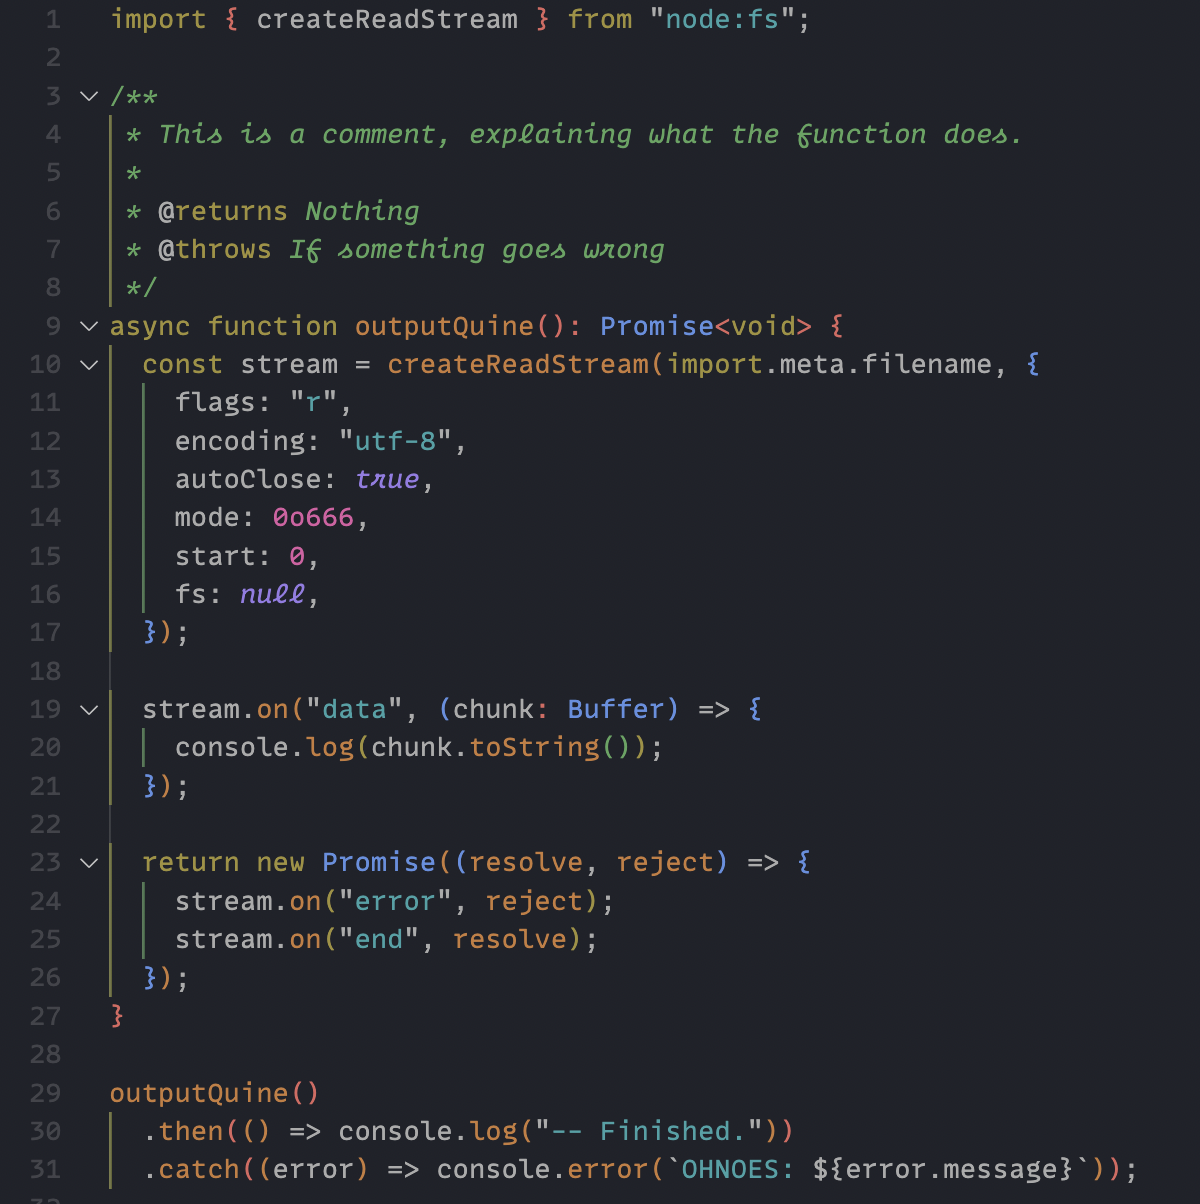
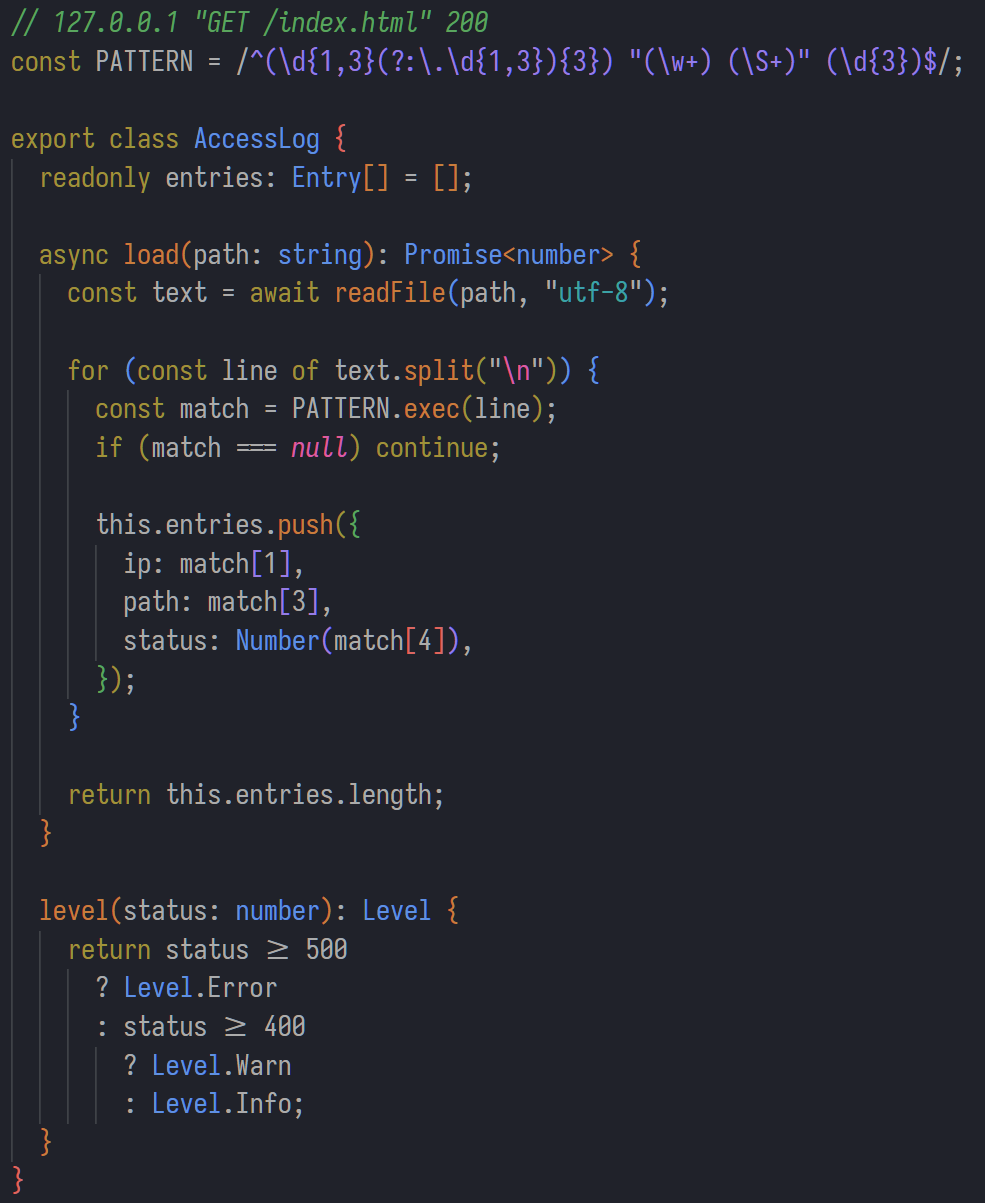
feat: 2.1.0

diff --git a/README.md b/README.md
@@ -4,8 +4,7 @@ A soothing, low-intensity color theme for people who stare at code all day. Ever
 
 | Luma Dark | Luma Light |
 | --- | --- |
-| <img src="https://raw.githubusercontent.com/scottinet/luma/refs/heads/main/assets/luma-dark-code.png" alt="Luma Dark Code" width="430"> | <img src="https://raw.githubusercontent.com/scottinet/luma/refs/heads/main/assets/luma-light-code.png" alt="Luma Light Code" width="430"> |
-| <img src="https://raw.githubusercontent.com/scottinet/luma/refs/heads/main/assets/luma-dark.png" alt="Luma Dark" width="430"> | <img src="https://raw.githubusercontent.com/scottinet/luma/refs/heads/main/assets/luma-light.png" alt="Luma Light" width="430"> |
+| <img src="https://raw.githubusercontent.com/scottinet/luma/refs/heads/main/assets/luma-dark-code.png" alt="Luma Dark" width="430"> | <img src="https://raw.githubusercontent.com/scottinet/luma/refs/heads/main/assets/luma-light-code.png" alt="Luma Light" width="430"> |
 
 ## About
 

diff --git a/themes/editors/vscode/README.md b/themes/editors/vscode/README.md
@@ -4,8 +4,7 @@ A soothing, low-intensity color theme for people who stare at code all day. Ever
 
 | Luma Dark | Luma Light |
 | --- | --- |
-| <img src="https://raw.githubusercontent.com/scottinet/luma/refs/heads/main/assets/luma-dark-code.png" alt="Luma Dark Code" width="430"> | <img src="https://raw.githubusercontent.com/scottinet/luma/refs/heads/main/assets/luma-light-code.png" alt="Luma Light Code" width="430"> |
-| <img src="https://raw.githubusercontent.com/scottinet/luma/refs/heads/main/assets/luma-dark.png" alt="Luma Dark" width="430"> | <img src="https://raw.githubusercontent.com/scottinet/luma/refs/heads/main/assets/luma-light.png" alt="Luma Light" width="430"> |
+| <img src="https://raw.githubusercontent.com/scottinet/luma/refs/heads/main/assets/luma-dark-code.png" alt="Luma Dark" width="430"> | <img src="https://raw.githubusercontent.com/scottinet/luma/refs/heads/main/assets/luma-light-code.png" alt="Luma Light" width="430"> |
 
 ## Why Luma
 